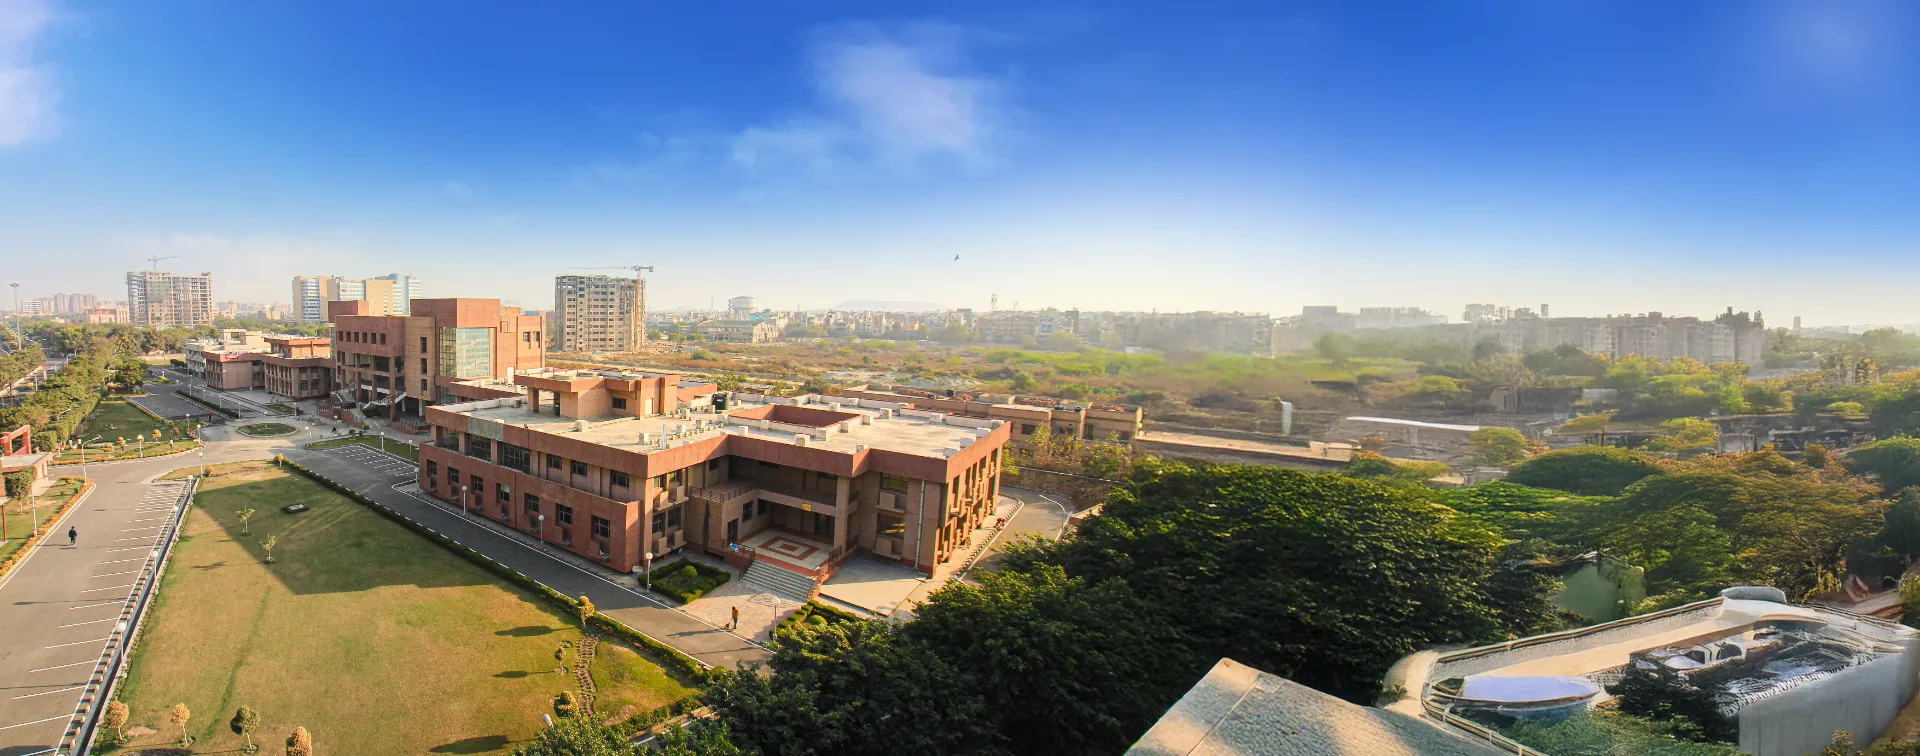
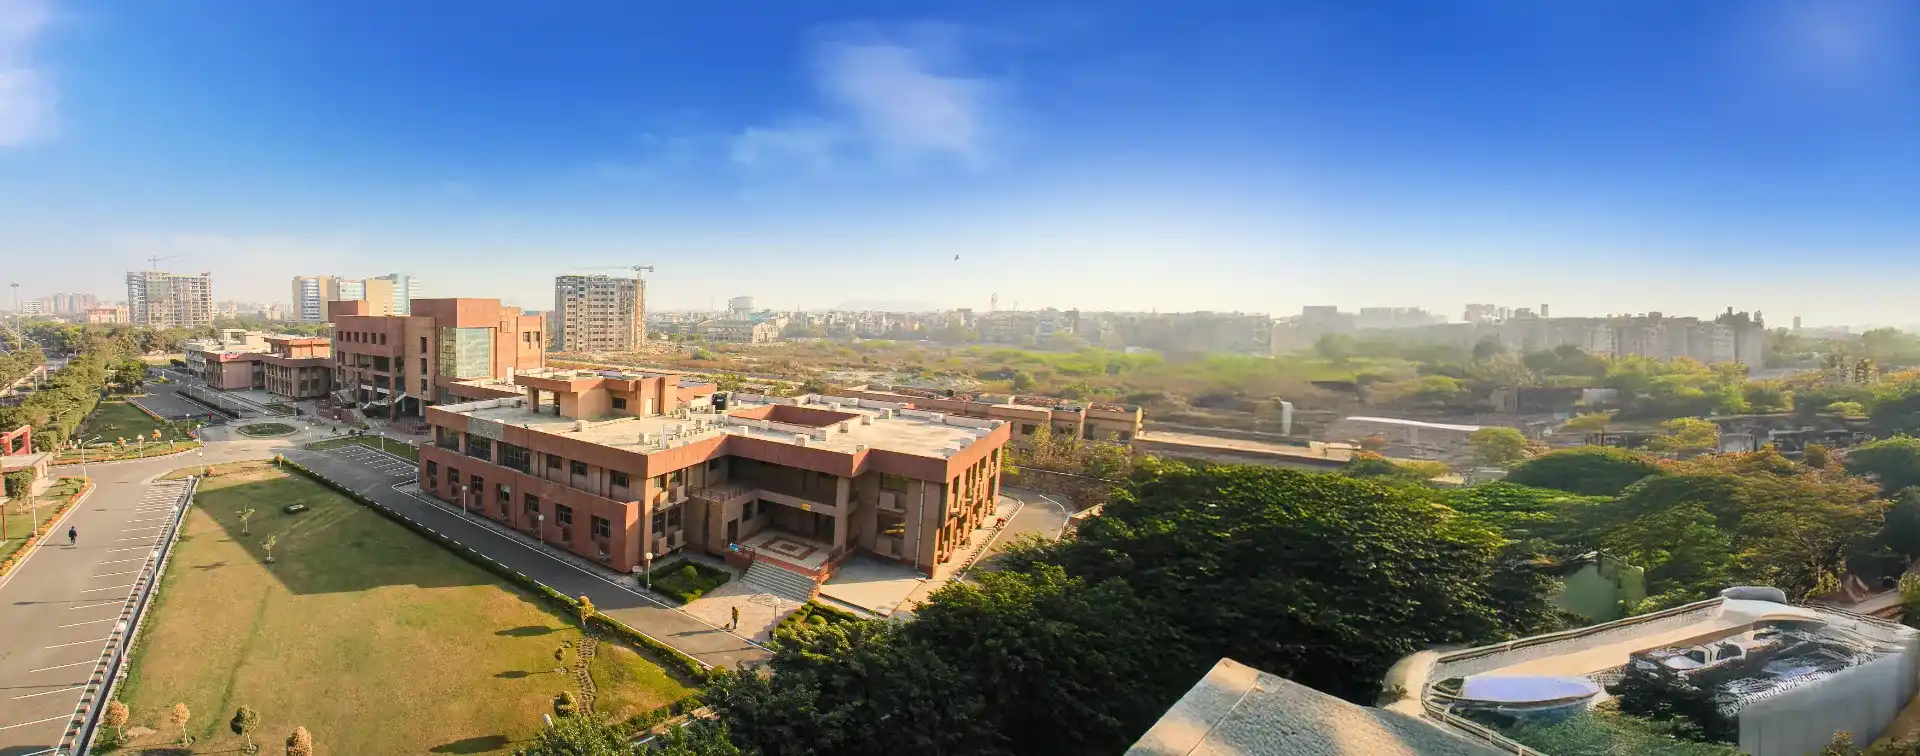
remove swiper css from layout, remove preload video, optiimize mob menu image

diff --git a/src/app/layout.js b/src/app/layout.js
@@ -7,10 +7,10 @@ import {
 import Header from "../component/Header";
 import Footer from "../component/footer/Footer";
 import Providers from "./providers";
+// import "swiper/css";
+// import "swiper/css/pagination";
+// import "swiper/css/navigation";
 import "bootstrap/dist/css/bootstrap.min.css";
-import "swiper/css";
-import "swiper/css/pagination";
-import "swiper/css/navigation";
 import "../styles/globals.css";
 // import "@fontsource/roboto-condensed/300.css";
 // import "@fontsource/roboto-condensed/400.css";
@@ -28,8 +28,8 @@ import GoogleAnalytics from "@/component/GoogleAnalytics";
 
 const roboto = Roboto({
   subsets: ["latin"],
-  weight: ["200", "300", "400", "500", "700"],
-  style: ["normal", "italic"],
+  // weight: ["200", "300", "400", "500", "700"],
+  // style: ["normal"],
   display: "swap",
   variable: "--font-Roboto",
   preload: true,
@@ -37,7 +37,7 @@ const roboto = Roboto({
  
 const robotoCondensed = Roboto_Condensed({
   subsets: ["latin"],
-  weight: ["200", "300", "400", "500", "700"],
+  // weight: ["200", "300", "400", "500", "700"],
   display: "swap",
   variable: "--font-Condensed",
   preload: true,
@@ -149,12 +149,6 @@ export default async function RootLayout({ children }) {
     <html lang="en" className={fontClassNames}>
       {/* Google Tag Manager */}
       <head>
-        <link
-          rel="preload"
-          href="https://backoffice.jssuninoida.edu.in/assets/video/banners/1775207103_69cf82bf29841.mp4"
-          as="video"
-          type="video/mp4"
-        />
         <link rel="preconnect" href="https://backoffice.jssuninoida.edu.in" />
         <link rel="preconnect" href="https://www.googletagmanager.com" />
         <link rel="preconnect" href="https://www.google-analytics.com" />

diff --git a/src/component/HeaderClient.js b/src/component/HeaderClient.js
@@ -109,7 +109,7 @@ const mobilePanelsData = [
     title: "Contact",
     name: "Contact",
     heading: "CAMPUS ADDRESS ",
-    bgImg: "/images/header/cont-mobmenu.png",
+    bgImg: "/images/header/cont-mobmenu.webp",
     icon: "/images/header/contact-mob.svg",
   },
 
@@ -1437,10 +1437,13 @@ export default function HeaderClient({
                       </div>
 
                       <div className="contactBanner">
-                        <img
-                          src={item.bgImg}
+                        <Image
+                          src={item?.bgImg}
                           alt="contact"
                           className="contact-banner"
+                          width={500}
+                          height={316}
+                          // loading="lazy"
                         />
                       </div>
                       <ul className="contact-info">

diff --git a/src/app/about/AboutClient.js b/src/app/about/AboutClient.js
@@ -5,7 +5,6 @@ import Image from "next/image";
 import { Swiper, SwiperSlide } from "swiper/react";
 import { Navigation, EffectFade } from "swiper/modules";
 import { BsArrowRightCircle, BsArrowLeftCircle } from "react-icons/bs";
-import { TfiArrowCircleRight } from "react-icons/tfi";
 import Link from "next/link";
 import "swiper/css";
 import "swiper/css/navigation";
@@ -490,7 +489,7 @@ export default function AboutClient() {
                             <h3>{leader.name}</h3>
                             <p>
                               {leader.designation}
-                              <TfiArrowCircleRight className="leadership-arrow-icon" />
+                              <BsArrowRightCircle className="leadership-arrow-icon" />
                             </p>
                           </figcaption>
                         </figure>

diff --git a/src/component/department-components/imageContent/ImageContent.js b/src/component/department-components/imageContent/ImageContent.js
@@ -3,8 +3,6 @@ import Image from "next/image";
 import styles from "./imageContent.module.css";
 import Link from "next/link";
 import { useEffect, useState } from "react";
-import AOS from "aos";
-import "aos/dist/aos.css";
 import { Swiper, SwiperSlide } from "swiper/react";
 import { Autoplay, Navigation } from "swiper/modules";
 import { MdChevronLeft, MdChevronRight } from "react-icons/md";
@@ -17,18 +15,7 @@ export default function ImageContent({ data, id, type, extraClass }) {
 
   const visibleMessages = expanded ? data.desc : data.desc.slice(0, 2);
 
-  useEffect(() => {
-      AOS.init({
-        duration: 1000,
-        easing: "ease-in-out",
-        once: true,
-      });
-    }, []);
   
-    useEffect(() => {
-      AOS.refresh();
-    }, [data]);
-
   return (
     <div
       key={id}

diff --git a/src/component/department-components/Placement-department/PlacementDepartment.js b/src/component/department-components/Placement-department/PlacementDepartment.js
@@ -7,13 +7,11 @@ import { FaQuoteLeft } from "react-icons/fa";
 import { FaChevronLeft, FaChevronRight } from "react-icons/fa6";
 import { useEffect, useRef } from "react";
 import Link from "next/link";
-import AOS from "aos";
 
 import "swiper/css";
 import "swiper/css/navigation";
 import "swiper/css/autoplay";
 import "swiper/css/effect-fade";
-import "aos/dist/aos.css";
 import styles from "./Placement.module.css";
 
 // const placementsData = {
@@ -79,7 +77,6 @@ export default function PlacementsSection({ data }) {
       : recruiters;
 
   useEffect(() => {
-    AOS.init({ duration: 1000, once: true });
 
     // Force Swiper update after mount
     setTimeout(() => {

diff --git a/src/component/home-components/banner/BannerComponent.js b/src/component/home-components/banner/BannerComponent.js
@@ -7,6 +7,9 @@ import Image, { getImageProps } from "next/image";
 
 import { WEB_URL } from "@/config/config.mjs";
 import { usePathname } from "next/navigation";
+import "swiper/css";
+import "swiper/css/pagination";
+import "swiper/css/navigation";
 import styles from "./banner.module.css";
 
 
@@ -182,7 +185,6 @@ export default function HeroSlider({ data, slug, classname='' }) {
                           width: "100%",
                           objectFit: "cover",
                         }}
-                        preload={isFirstSlide ? 'metadata' : 'none'}
                       />
                     ) : (
                       desktopImageProps && (

diff --git a/src/component/department-components/faculty-list-department/FacultyList.js b/src/component/department-components/faculty-list-department/FacultyList.js
@@ -7,22 +7,12 @@ import Link from "next/link";
 import Image from "next/image";
 import { useEffect } from "react";
 import { CiCircleChevLeft, CiCircleChevRight } from "react-icons/ci";
-import AOS from "aos";
-
 import "swiper/css";
 import "swiper/css/navigation";
 import "swiper/css/pagination";
-import "aos/dist/aos.css";
+
 
 export default function FacultyList({ data }) {
-  useEffect(() => {
-    AOS.init({
-      duration: 1000,
-      easing: "ease-in-out",
-      once: true,
-    });
-  }, []);
-
   const facultyData = data || {};
 
   return (

diff --git a/src/app/testimonials/TestimonialClient.js b/src/app/testimonials/TestimonialClient.js
@@ -191,7 +191,7 @@ export default function TestimonialClient() {
                                 ? item.image
                                 : `${ASSETS_URL}${item.image}`
                             }
-                            alt={item.alt_text || item.name}
+                            alt={item.alt_text || item.name || 'faculty'}
                             className="img-fluid w-100"
                             width={300}
                             height={300}

diff --git a/src/styles/globals.css b/src/styles/globals.css
@@ -274,7 +274,7 @@ p {
 }
 
 .onlyMobile {
-  display: none;
+  display: none!important;
 }
 
 .coming-container {width: 100%;height: 100vh;background: #f4f4f4;display: flex;flex-direction: column;align-items: center;justify-content: center;text-align: center;padding: 2rem;}
@@ -362,7 +362,7 @@ p {
 
 @media (max-width: 767px) {
   .onlyMobile {
-    display: block;
+    display: block!important;
   }
 
   .onlyDesktop {

diff --git a/src/component/home-components/placement/PlacementComponent.js b/src/component/home-components/placement/PlacementComponent.js
@@ -7,6 +7,9 @@ import { FaQuoteLeft } from "react-icons/fa";
 import { useRouter } from "next/navigation";
 import { useEffect } from "react";
 import { WEB_URL } from "@/config/config";
+import "swiper/css";
+import "swiper/css/navigation";
+import "swiper/css/pagination";
 import styles from "./placement.module.css";
 
 const dummyPlacementsData = {

diff --git a/src/component/home-components/home-happening/HappeningsHomeComponent.js b/src/component/home-components/home-happening/HappeningsHomeComponent.js
@@ -6,6 +6,9 @@ import { Swiper, SwiperSlide } from "swiper/react";
 import { GoArrowRight } from "react-icons/go";
 import Link from "next/link";
 import { WEB_URL } from "@/config/config";
+import "swiper/css";
+import "swiper/css/navigation";
+import "swiper/css/pagination";
 import styles from "./happening.module.css";
 
 

diff --git a/src/component/header.css b/src/component/header.css
@@ -351,6 +351,7 @@
 .courses-menu li { padding: 0; }
 .brand-wrap.logo-content { display: block; }
 .engineering-dropdown-container { top: 85%; left: 13%; }
+.hamburger-layout:before{background-image:none;}
  }
 .header-inner { width: 100%; padding-block: 2.4rem; }
 @media (max-width: 667px) {
